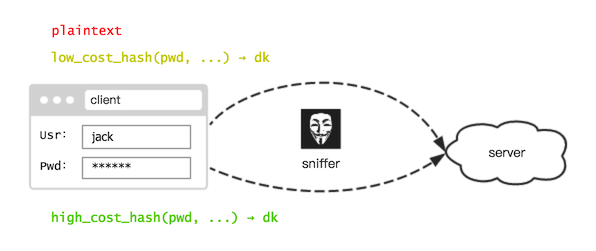
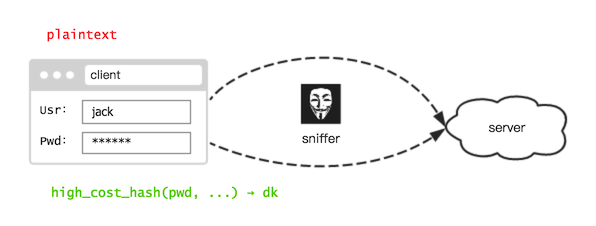
update

diff --git a/doc/client-hash-via-insecure-network/README.md b/doc/client-hash-via-insecure-network/README.md
@@ -17,13 +17,11 @@
 
 假如我们的登录过程被嗅探，那么前端提交的 dk 就会泄露。而 dk 是身份凭据，泄露即意味着 **攻击者用它也能登上该账号**。所以账号被盗用，显然是无法避免的。
 
-不过，相比传统提交，风险其实已降低了不少：
-
-传统提交，口令大多是毫不避讳，直接明文发送的。最多也只是在前端页面中，进行低成本 Hash 再提交。因此攻击者可通过嗅探到的数据，配合页面中的算法，轻易破解口令。
+不过，相比传统提交，风险其实已降低了不少 —— 传统提交，口令大多是毫不避讳，直接明文发送的。（当然有些开发者会用公钥加密口令，这确实能有效对抗嗅探攻击）
 
 ![](sniffer.png)
 
-但现在，攻击者嗅探到的 dk，是口令经过 **高成本 Hash** 的计算结果。攻击者若想通过 dk 还原口令，得花费巨大的算力。
+而现在，攻击者嗅探到却是的 dk，这是口令经过 **高成本 Hash** 的计算结果。攻击者若想通过 dk 还原口令，得花费巨大的算力。
 
 因此最终：账号被盗，口令拿不到。那些使用类似口令的其他账号，就幸免于难了。
 
